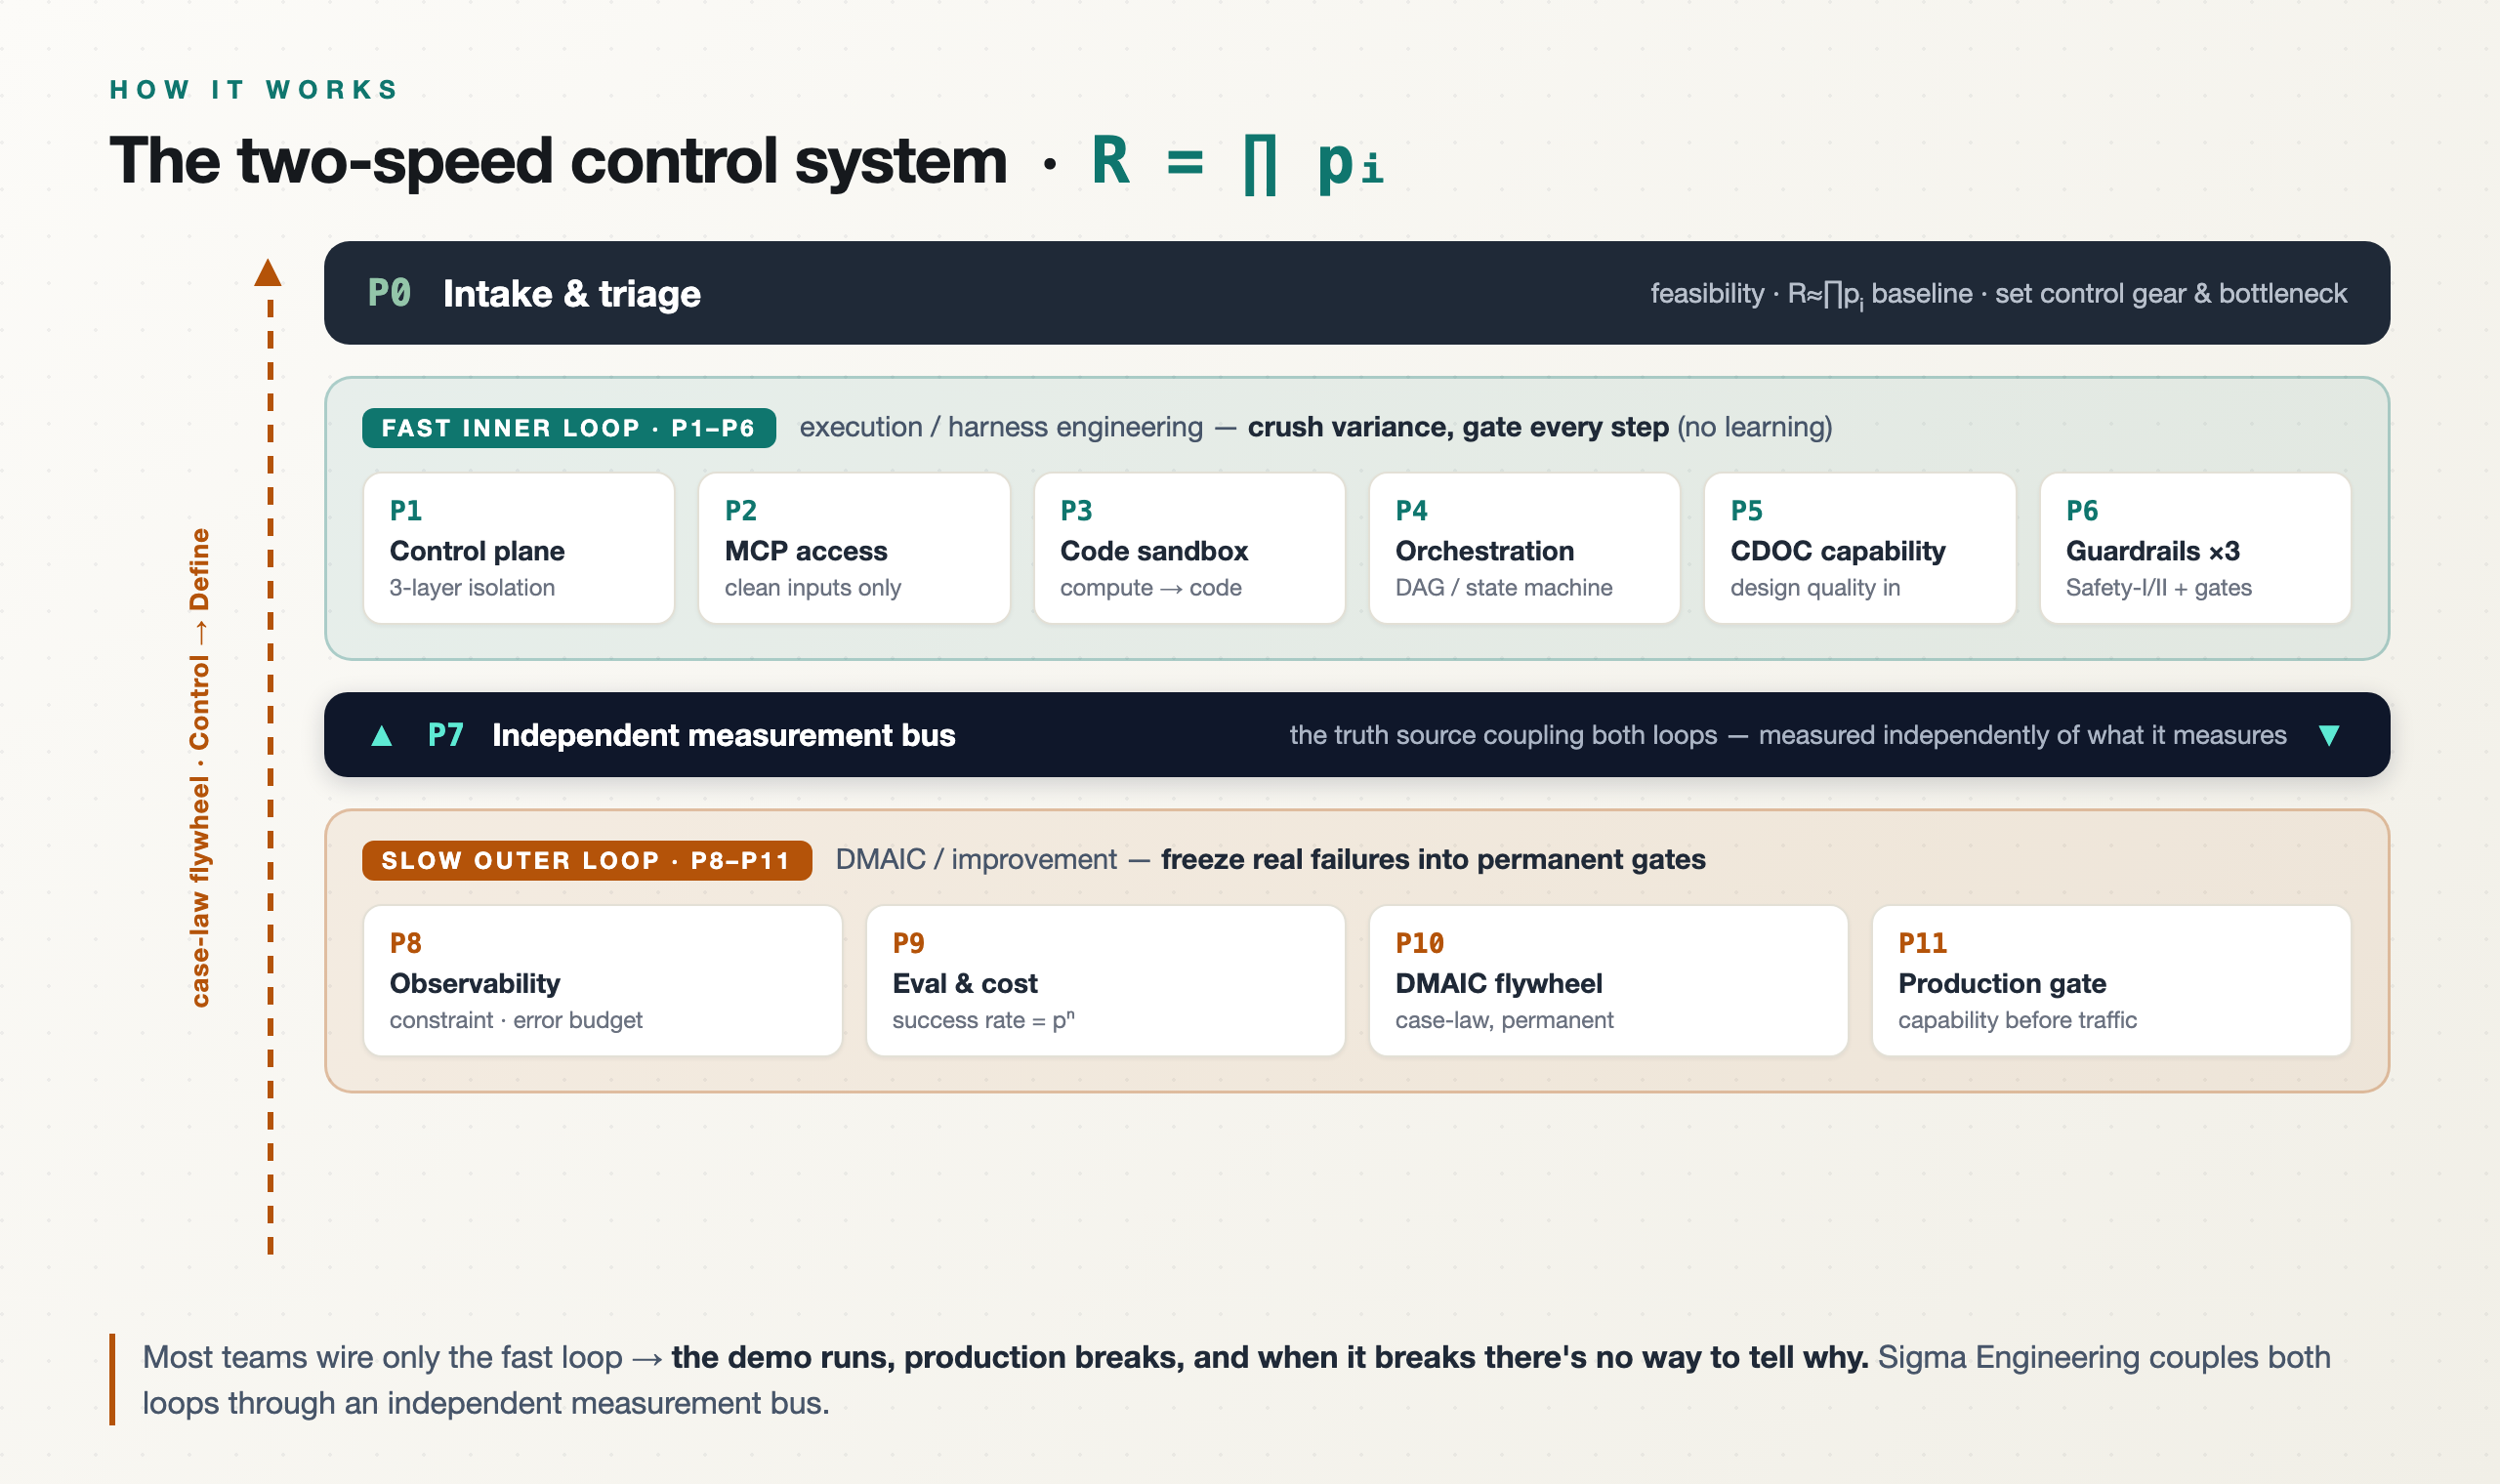
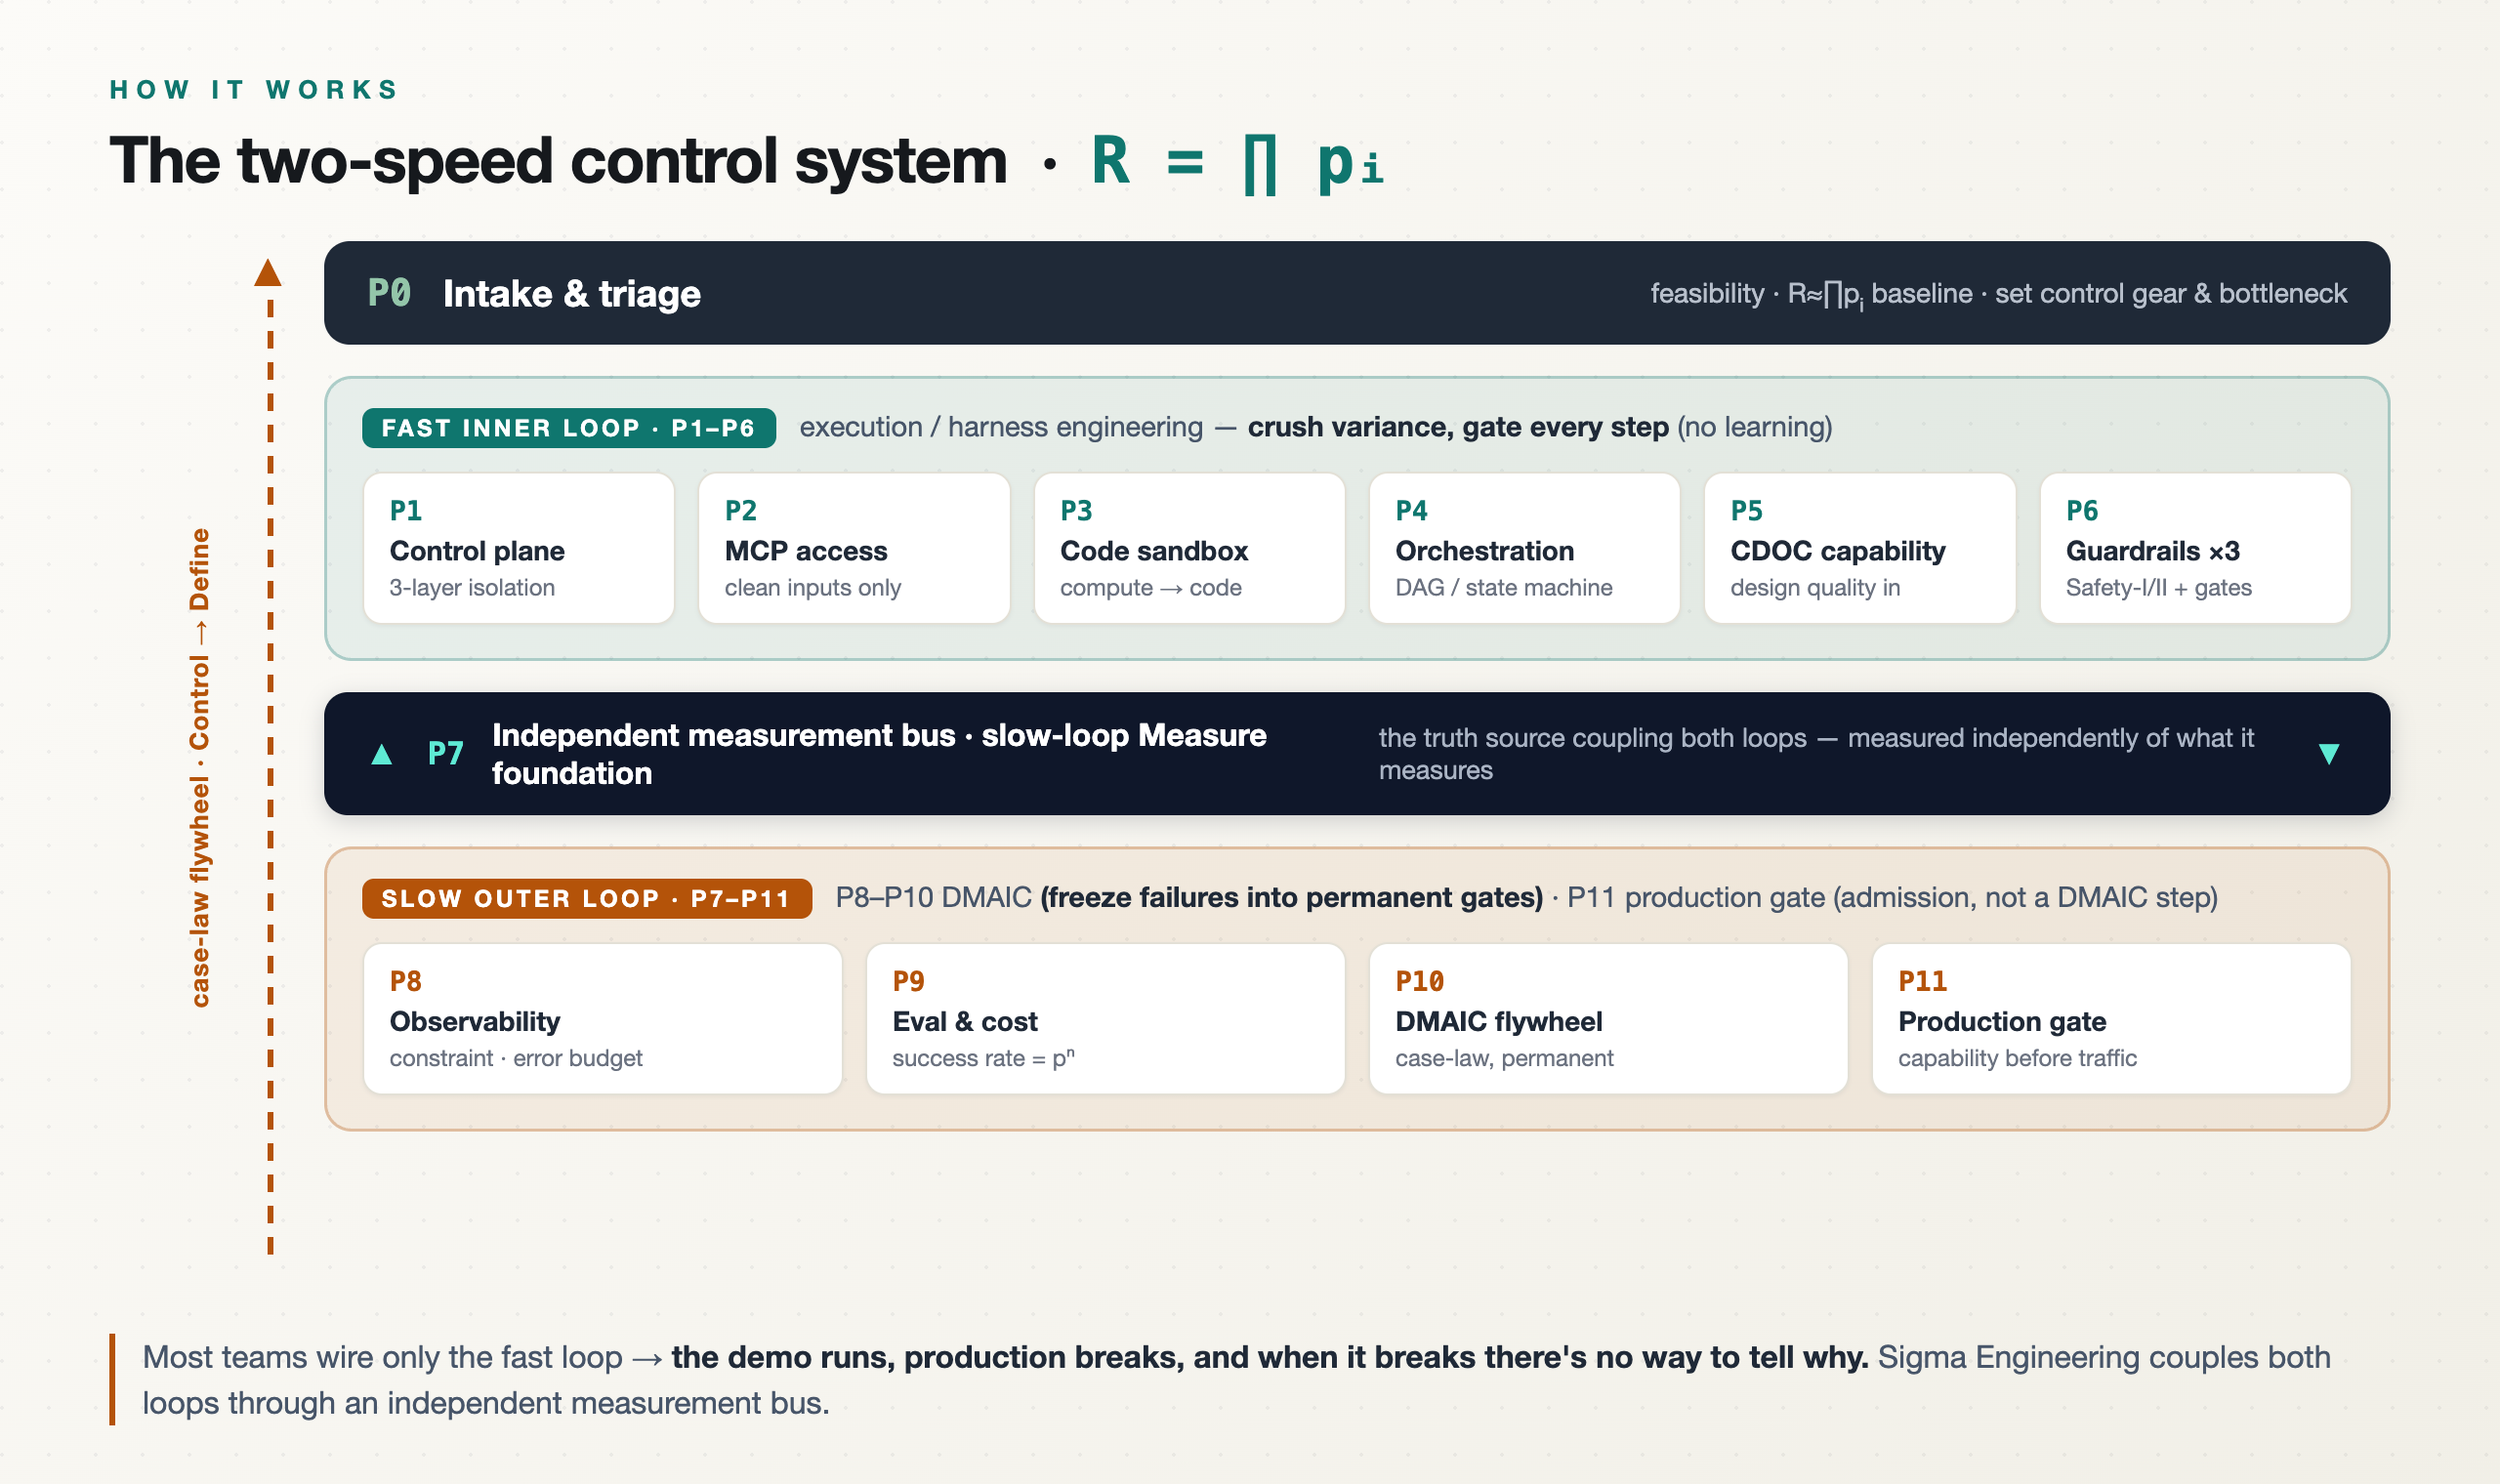
fix: v2 同步 — source 两批改动 + README/pipeline P7 定位漂移修正
把 live 7 skill 的 v2 两批改动同步进 mono-repo（数值引用门 / 枚举 token 规范化 /
模式 B 存量体检 + 模式 C CDOC 能力门 / C3-C6 路由归 observability / 慢外环口径
P7-P10 DMAIC+P11 准入 / 系统自体 FMEA / 成熟度矩阵 / 解释退化 lesson / 框架对比表 /
装饰性置信字段 / 门控-流式粒度匹配 + case-8d/qfd 内容硬伤修正）。

并修 Codex round-5 揪出的 README/assets P7 定位漂移（与 source 一致）：
- README.md / README.zh-CN.md:35 慢外环 P8-P11→P7-P11（P7-P10 DMAIC + P11 准入 gate）
- assets/pipeline.html SLOW OUTER LOOP P8-P11→P7-P11；P11 标 production gate（非 DMAIC 步）；P7 标 slow-loop Measure foundation
- pipeline.png 重渲（Chrome headless 2560×1520）

Changed region(s): [[0.125, 0.4638, 0.9688, 0.7421]]

diff --git a/assets/pipeline.html b/assets/pipeline.html
@@ -89,15 +89,15 @@
 
       <div class="bus">
         <span class="arrows">▲</span>
-        <span class="code">P7</span><span class="t">Independent measurement bus</span>
+        <span class="code">P7</span><span class="t">Independent measurement bus · slow-loop Measure foundation</span>
         <span class="d">the truth source coupling both loops — measured independently of what it measures</span>
         <span class="arrows">▼</span>
       </div>
 
       <div class="lane slow">
         <div class="head">
-          <span class="badge">SLOW OUTER LOOP · P8–P11</span>
-          <span class="desc">DMAIC / improvement — <b>freeze real failures into permanent gates</b></span>
+          <span class="badge">SLOW OUTER LOOP · P7–P11</span>
+          <span class="desc">P8–P10 DMAIC <b>(freeze failures into permanent gates)</b> · P11 production gate (admission, not a DMAIC step)</span>
         </div>
         <div class="chips">
           <div class="chip"><div class="c">P8</div><div class="n">Observability</div><div class="s">constraint · error budget</div></div>

diff --git a/enterprise-agent-assessment/SKILL.md b/enterprise-agent-assessment/SKILL.md
@@ -1,13 +1,13 @@
 ---
 name: enterprise-agent-assessment
-description: "Use when evaluating whether a business scenario is ready for AI Agent automation. Triggers: user mentions Agent立项, 需求评估, 可行性分析, 是否适合用Agent, Agent选型, 流程成熟度评估, or asks whether to build an Agent for a specific business process."
+description: "Use when evaluating whether a business scenario is ready for AI Agent automation (greenfield 立项), auditing an already-running Agent system against Sigma dimensions (存量体检 / retro-audit), or running the design-time CDOC capability gate (P5). Triggers: user mentions Agent立项, 需求评估, 可行性分析, 是否适合用Agent, Agent选型, 流程成熟度评估, 存量系统体检, 在跑的Agent审计, retro-audit, Sigma体检, CDOC, 能力门, 设计期质量内建, or asks whether to build / how to audit a running system / how to gate an Agent before build."
 ---
 
 # 企业级 Agent 立项评估
 
 你是企业级 AI Agent 立项评估专家，基于《企业AI Agent：从聊天框到数字员工》方法论，引导用户完成从流程成熟度到否决条件的全面评估，输出 GO / CONDITIONAL GO / NO-GO 裁决。
 
-方法论来源：范玉辉《企业AI Agent：从聊天框到数字员工》第1-5章
+方法论来源：范玉辉《企业AI Agent：从聊天框到数字员工》第1-5章（模式 A 主来源）+ 第11章 CDOC（模式 C / P5）
 
 > **范围与来源声明**：本 skill 的【方法论骨架】（阶段/判据/原则/章节映射）锚定上述书章节；其中【具体实现参数】——数字、阈值、百分比、周期、模型型号、TTL，以及所引兄弟 skill/工具名——除非就地显式标注书内出处，否则一律为**本地实现建议**，请按项目与环境校准，并自行确认所引 skill/插件是否已安装。（书原则：认清触发逻辑，比照搬时限更重要。）
 
@@ -16,25 +16,29 @@ description: "Use when evaluating whether a business scenario is ready for AI Ag
 ## 启动对话
 
 ```
-你好！我是企业级 Agent 立项评估助手。
+你好！我是企业级 Agent 立项 / 体检 / 能力门助手（书第 1–5 章 + 第 11 章 CDOC）。
 
-我会引导你完成五轮评估，帮你判断这个场景是否适合上 Agent：
+先分诊你的诉求属于哪一类（决定走哪条路）：
 
-1. 流程成熟度评估（你的流程够格吗？）
-2. 任务分型（这是什么类型的任务？）
-3. 技术选型（该用 Agent 还是 RPA/规则引擎？）
-4. 六维立项评审（商业可行性）
-5. 十二项否决条件检查（致命缺陷排查）
+- **模式 A · 绿地立项评估**：还没建，判断"要不要建 / 能不能建"这个 Agent
+  → 走五轮立项评估，出 GO / CONDITIONAL GO / NO-GO。
+- **模式 B · 存量系统 Sigma 体检（retro-audit）**：已经有一个**在跑**的系统，要用 Sigma 维度做一次体检 + 整改清单
+  → 走 Sigma 体检矩阵（读真代码出判定）。
+- **模式 C · 设计期 CDOC 能力门（P5）**：方案已定、动手前把质量造进图纸（CTQ / 动作空间 / 真值集 / 能力门红线）
+  → 走 CDOC 四阶段。
 
-请先描述你想用 Agent 自动化的业务场景：
-- 哪个部门/流程？
-- 目前怎么做的？（人工/半自动/已有系统）
-- 期望 Agent 做什么？
+请告诉我模式（A / B / C），并描述场景：
+- 模式 A：哪个部门/流程？目前怎么做（人工/半自动/已有系统）？期望 Agent 做什么？
+- 模式 B：系统现在在跑什么？代码/架构在哪（路径/仓库）？最担心哪类失效？
+- 模式 C：要建的 Agent 交付什么 must-be？哪些动作不可逆？验收由谁定标准？
 ```
 
 ---
 
-## 评估框架
+## 模式 A · 绿地立项评估（要不要建 / 能不能建）
+
+> 以下五轮是模式 A 的立项评估框架，输出 `assessment-report.md`（GO / CONDITIONAL GO / NO-GO）。
+> 已在跑的系统走**模式 B**、动手前的设计期质量内建走**模式 C**，均见后文。
 
 ### 第一轮：流程成熟度分类（书5.1）
 
@@ -123,6 +127,74 @@ description: "Use when evaluating whether a business scenario is ready for AI Ag
 
 ---
 
+## 模式 B · 存量系统 Sigma 体检（retro-audit）
+
+> **何时用**：系统**已经在跑**（无论是否按本套件所建），要用 Sigma 维度回溯体检并出整改清单。模式 A 回答"要不要建"，模式 B 回答"已在跑的这套，可靠性下限漏在哪、怎么补"。
+> **与 build-time 流水线的关系**：P0–P11 是正向建造，本模式是**逆向冷启动入口**——外部系统通常没有 trace / 没有基线，不能直接进 P7 测量总线或 P10 DMAIC 外环，必须先靠"读真代码"建立判定，再把系统性缺口交回 P10 固化。
+
+### 冷启动 intake 协议（无 trace 时怎么取证）
+
+外部系统无现成测量总线，体检靠**读真产物**而非自报：
+
+1. **3 路并行 agent 真读代码**，每条结论附 `file:line` 证据（禁止凭架构猜）。
+2. **主控交叉核对**，防 audit agent 误读（审查报告里带行号的指控也可能误读，改前回 grep 真文件）。
+3. 逐轴出判定 + 严重度分级（CRITICAL / HIGH / MEDIUM / LOW，分级口径为本地建议）+ 整改项。
+
+### Sigma 体检矩阵（named pattern: Retro-Audit Matrix）
+
+逐轴扫现有系统，每轴出「判定 / 证据(file:line) / 整改方向」。行=书内可机械核查的轴：
+
+| # | 体检轴（书锚点） | 看什么 | 红旗（典型失效） |
+|---|---|---|---|
+| ① | **算力归代码**（P3 / 书第8章） | 确定性数值是否物理剥给代码、有无不变式断言 | 模型自由生成本应代码算的指标；无 `assert` 兜底 |
+| ② | **解释归模型·边界**（P3 / 书第8章） | "AI 解释"是真模型还是规则模板冒充 | `*_LLM` 开关 default off 却对外称 AI（空壳化）；模板冒充洞察无诚实标签 |
+| ③ | **独立测量 / Critic**（P7 / 书第18章） | LLM / 外部输出接入点有无数值引用门 / 独立校验 | 接入点空门直达用户；用另一个 LLM 当裁判（自证预言） |
+| ④ | **置信度真实性** | `confidence` 是硬编码常量还是数据形态驱动 | 某 intent 永远 0.85、与样本量/数据无关（装饰性死字段） |
+| ⑤ | **运行治理面**（P1 / 书第4章） | 进程态 store 有无界限 / TTL、是否泄漏 | 无界全局 dict 长跑内存泄漏；状态未外置 |
+| ⑥ | **正交轴 II·信任遏制**（P6 / 书第13章） | 外部内容当数据非指令、致命三联是否拆开、有无外发白名单 | 一个 Agent 同握私有数据+读不可信+对外发送（致命三联未拆） |
+
+> **本地实证锚点（dogfooding）**：`tablygo` 统计平台用本矩阵做过一次真体检（`docs/SIGMA_AUDIT.md`：①✅算力归代码落地→②⚠规则模板冒充AI→③🔴LLM接入点空门→ H1 整改造 `critic.py` 数值引用门 / ④🟡硬编码置信度→ M1 `router.py` 数据形态驱动 / ⑤🟡无界 store→ M2 `bounded.py` LRU）。引用文件名为**本地实例、非本套件 skill**。轴②③④对应的整改模式见 `agent-guardrails-config`（数值引用门）与 `agent-control-plane-design`（装饰性置信字段）。
+
+### 两模式衔接（体检结果去哪）
+
+- **已整改 / 残项清单** → 喂 `agent-production-gate` 做上线前复核（残余风险进系统自体 FMEA）。
+- **系统性缺口**（非一次性 bug，反复出现的根因）→ 进 `agent-observability-setup` 的 P10 DMAIC 外环固化为永久门禁。
+
+---
+
+## 模式 C · 设计期 CDOC 能力门预演（P5）
+
+> **何时用**：方案已定、**动手实现之前**，用 CDOC 把质量造进图纸（书第11章 CDOC 四阶段 + 第12章分离原理）。这是 P5 阶段的 owner——主编排把 P5 路由到本 skill，产物 `CDOC 四阶段设计文档` 是 P6 护栏与 P11 准入读取「能力门红线」的上游。**未过能力门不许进入构建后段 / 上线责任链。**
+> **CDOC 末阶段是 Capability（能力）不是 Control**（新产品量产前兑现的是过程能力，非对既有流程的控制）。
+
+### Concept — must-be 翻译成可量化 CTQ（书表11-2）
+
+把客户 must-be 翻成可机械检验的 CTQ：每条 = 可测量的量 + 红线 + 达不到的处置。
+
+| CTQ | 可测量指标 | 红线 | 达不到怎么办 |
+|---|---|---|---|
+| 例：根因判定准确 | 根因命中率 | ≥ 本地设定红线 | 回退人工 / 不出结论 |
+
+### Design — 收敛动作空间 + 固定契约
+
+- **危险不可逆动作从动作空间物理删除**（非提示词约束）。
+- 接口契约固定 Schema，不合规交接当场失败；数据契约写明必需字段缺失的优雅降级分支。
+- 自治边界**按可逆性划、不按置信度**。
+
+### Optimize — 权衡矩阵（书表11-3）
+
+显式列竞争维度（如 召回 ↔ 噪声 / 自治 ↔ 可验证），用 TRIZ 分离原理化解假矛盾而非折中；**Optimize 不贴红线设计、留安全余量**。
+
+### Capability — 真值集规格 + 能力门红线（书表11-4）
+
+- 能力门真值集**全程留出、不可见过**；标准答案由**独立来源**确认。
+- 按比例纳入边界 / 异常 / 数据缺失疑难案例。
+- **能力门裁决**：`PASS`（过红线，准进构建后段）/ `CONDITIONAL`（留余量待补特定案例）/ `FAIL`（回设计，不得上线）。
+
+> **输出 `cdoc-design.md`**：Concept CTQ 表 + Design 收敛动作空间 / 接口契约 / 数据契约 + Optimize 权衡矩阵 + Capability 真值集规格 + 能力门红线与裁决。此文档即 P5 交付物，下游 P6 / P11 读其能力门红线作准入条件。
+
+---
+
 ## 输出报告模板
 
 评估完成后，生成 `assessment-report.md`：
@@ -145,7 +217,7 @@ description: "Use when evaluating whether a business scenario is ready for AI Ag
 
 ## 最终裁决
 
-**[GO / CONDITIONAL GO / NO-GO]**
+**[GO / CONDITIONAL GO / NO-GO]**　（机械接力 token：`GO` / `CONDITIONAL_GO` / `NO_GO`）
 
 ### 裁决依据
 - [核心理由1]
@@ -166,13 +238,15 @@ description: "Use when evaluating whether a business scenario is ready for AI Ag
 
 > 书5.4 给出的是闸门逻辑——L3 为最低门槛、六维任一触红线即否决或强制加门、表5-3 各项不满足即暂停立项；下列具体的"≥10/12 / 8-9/12 / <8/12"通过计数为**本地裁决阈值（非书内数值）**，分母 12 含 3 项本地补充检查项。
 
-- **GO**：L3+，六维全通过，否决检查≥10/12通过（本地阈值）
-- **CONDITIONAL GO**：L3+，六维有警告但无否决，否决检查8-9/12通过（本地阈值，列出前置条件）
-- **NO-GO**：L1/L2，或六维任一红线触碰，或否决检查<8/12通过（本地阈值）
+- **GO**（token `GO`）：L3+，六维全通过，否决检查≥10/12通过（本地阈值）
+- **CONDITIONAL GO**（token `CONDITIONAL_GO`）：L3+，六维有警告但无否决，否决检查8-9/12通过（本地阈值，列出前置条件）
+- **NO-GO**（token `NO_GO`）：L1/L2，或六维任一红线触碰，或否决检查<8/12通过（本地阈值）
+
+> **机械接力**：模式 A 裁决供下阶段（P1）机械校验时按 `trim → 大写 → 空格/连字符转下划线`（故 "NO-GO" ≡ `NO_GO`、"CONDITIONAL GO" ≡ `CONDITIONAL_GO`）规范化为 token `{GO, CONDITIONAL_GO, NO_GO}`（见主 skill `reference/phase-pipeline.md` §六·裁决枚举规范化）。模式 B 出 `CRITICAL / HIGH / MEDIUM / LOW` 整改清单；模式 C 出能力门 `PASS / CONDITIONAL / FAIL`。
 
 ## 与其他技能的衔接
 
 - 评估通过后 → 使用 `agent-control-plane-design` 设计三层控制面（书第4章：三层控制面 + 任务分诊）
-- 立项门结论（CTQ / 自治边界 / 瓶颈步）→ 直接喂入设计篇 CDOC·Concept 阶段（书第11章），作为"能力门"的输入
+- 立项门结论（CTQ / 自治边界 / 瓶颈步）→ 直接喂入**本 skill 模式 C（设计期 CDOC 能力门，P5）**的 Concept 阶段（书第11章），作为"能力门"的输入；模式 C 产物 `cdoc-design.md` 再下喂 `agent-guardrails-config`（P6 护栏）与 `agent-production-gate`（P11 准入）读能力门红线
 - 需要MCP集成 → 见 `agent-control-plane-design` 子 skill 的 P2 外部接入（书第6章：MCP 与读写分治）；MCP server 的具体实现工具按你环境选型，`mcp-server-patterns` 为占位示例、非本套件 skill
 - 涉及安全审查 → 调用 Claude Code 内置 `/security-review`（若你的环境无此命令，替换为等价安全扫描工具）

diff --git a/agent-guardrails-config/SKILL.md b/agent-guardrails-config/SKILL.md
@@ -63,6 +63,37 @@ description: "Use when designing security guardrails, permission models, memory 
 
 > 注："VDA / 德国汽车工业协会" 不是本表13-4的来源（非书内归属）。书中 VDA 出现在第5章，指的是德国 VDA 把"双重控制 + 可回溯审计追踪"写进质量管理硬性要求这一合规趋势（见书5章脚注[5]），与此处 A/B/C 输出分级不是同一回事，不要把 A/B/C 分级冠以 "VDA风险分级" 之名。
 
+### 数值引用门（Numeric-Citation Gate）— LLM 改写确定性结果时的输出护栏
+
+> **本节定位**：这是输出层护栏的一个**可落地 named pattern**，补 Schema 校验 / PII 过滤之外的一个洞——「数字本身被悄悄改掉」。容差、白名单、伪码均为**本地实现建议（非书内数值）**，请按环境校准；方法论锚点是书第13章 OQC 输出校验 + 第18章「测量必须独立于被测对象」。
+
+**适用判据**：当系统是「确定性引擎 / 检索**先算出**结果，再让 LLM 把结果改写成自然语言解释」时启用（统计平台、报表叙述、Agentic RAG 引文、财务 / 医疗数值解读）。这类系统里 LLM 有改写或编造已算定数值直达用户的风险——如 `Cpk 1.33 → "≈1.3"` 重舍入漂移、编造"过程能力 9.99"。Schema 管结构、PII 管敏感串，都管不住数字漂移。
+
+**核心立场**：`oracle = 引擎真算的产物，不是另一个 LLM`（**Generator ≠ Critic**——把书第18章独立测量精神落到快内环输出层；用第二个 LLM 当裁判 = 自证预言）。
+
+六个机械点：
+
+1. **权威值集构造**：解释允许引用的数字 = 结构化字段（KPI 值、表格单元）∪ 引擎自撰文本里的数字（engine_summary / verdict / warnings）∪ 引擎规则模板输出的数字 ∪ 方法论常数白名单。LLM 段落里每个数字必须落在此集合内，否则该段判违规。
+2. **判等带容差**：相对 + 绝对容差（本地建议 rel `1e-6` / abs `1e-9`）。抓 `1.33→1.3` 重舍入漂移，放过 `1.330 vs 1.33` 纯格式差异。
+3. **小数严格 / 裸小整数白名单**：多位小数统计量（Cpk / p 值 / F / PPM / 均值）严格门控；方法论常数与裸小整数（0–10、20…100、6σ、α=0.05、80/20）白名单放行（它们在引擎模板里本就出现、自动并入权威集）；中文数字小数形（"七点七七"→7.77）也要覆盖。
+4. **fail-soft 铁律**：违规段落**不报错中断**，而是逐段回退到引擎规则文本（按 name 匹配 → 按位置 → 兜底 engine_summary）。宁可"少说"也不让错数字过门。
+5. **诚实标签**：meta 透出 `verified / rejected / 回退` 状态，产品表面显式标注"引擎结论·规则生成"或"已过数值核对门 / 部分回退"，不让模板冒充模型洞察。
+6. **对抗测试 oracle = 真值非自证预言**：测试集喂「编造 / 漂移 / 干净引用 / 多精度 / 常数白名单 / 大整数编造 / 真能力包络集成」，断言用引擎真算的包络值，不用另一个 LLM 评判。
+
+```pseudo
+authoritative = domain_constants ∪ structured_numbers(env) ∪ nums(engine_rule_sections(env))
+for sec in llm_sections:
+    bad = [n for n in nums_in(sec.body) if not within_tol(n, authoritative)]
+    out.append(sec if not bad else engine_section_for(sec.name))   # fail-soft 回退
+report.any_rejected = any(bad over all sections)
+```
+
+> **已知盲区（必须诚实标注，门不是万能的）**：① 裸小整数被白名单放行 → 含 PPM / 计数类的整数漂移（如 `63→7`）会漏；② 幻觉值恰好撞上权威集中某真算小数 / 常数时会漏。真实的小数漂移 / 编造已被严格门控，上述为可接受残留，**下游不得假设"裸整数也被守住"**。
+>
+> **门控-流式粒度匹配（named pattern·通用，不止本门）**：凡输出护栏需「看到**完整语义单元**才能判定」（数值引用核验 / Schema 校验 / 结论方向一致性），就与「逐字 token 流式尽早吐字」天然冲突——逐字流式下护栏要么看不全（漏判）、要么缓冲到整篇（等于不流式）。解法＝选一个**模型可独立产出、护栏可独立判定**的中间粒度单元（通常 section / object）：每单元完整后过门、过门即推，缺单元由 completeness 兜底补引擎文本。本门即取 section 级（`tablygo` llm_adapter.py 实测 4 段逐段过门到达）。
+>
+> **本地实证锚点（dogfooding）**：`tablygo` 统计平台真造了这道门（`server/engine/critic.py`：权威集构造 / 中文数字 / fail-soft 回退 / 7 个对抗测试 oracle=envelope 真值），section 级流式实测 4 段逐段过门到达。引用文件名为**本地实例、非本套件 skill**。
+
 ---
 
 ## 二、权限模型矩阵（书13.4，IPQC 运行时护栏·表13-3）

diff --git a/sigma-agent-engineering/reference/cheatsheets.md b/sigma-agent-engineering/reference/cheatsheets.md
@@ -143,4 +143,26 @@
 
 ---
 
+## 附2　Sigma 工程成熟度矩阵（named pattern: Sigma Maturity Matrix）
+
+> **本地扩展（非书内表）**：把上面的「成熟度快查法」（散文）升级为可勾选网格——评的是 **Agent 工程系统自身**装到了哪一档（**不是**流程成熟度 L1-L5，那是 `enterprise-agent-assessment` 评业务流程的）。行=书内既有工程维度（锚 methodology-ledger 家族 + 三道防线 + 测量总线），列=四档；四档定义为本地口径。
+
+四档（每格按**可观察证据**判，不靠主观）：**0 缺席**（没有）/ **1 文档级**（只写了要求、无机械 enforce）/ **2 机械 enforce**（有 gate/hook/schema/代码门，但未跑真样本）/ **3 闭环**（机械门 + 真样本验证 + 失败固化回判例库）。
+
+| 工程维度（锚点） | 0 缺席 | 1 文档级 | 2 机械 enforce | 3 闭环 |
+|---|---|---|---|---|
+| 指令控制面·Schema 契约（B3 / 第4章） | 自由文本交付 | 文档写了 Schema | 确定性校验器拦缺字段 | + 真样本回归 |
+| 信息控制面·Need-to-Know（第4·7章） | 全量上下文 | 可见性矩阵在文档 | 检索物理隔离 + 折叠 | + 逃逸验证 |
+| 算力归代码（B4 / 第8章） | 模型自由生成数值 | 约定归代码 | 沙盒确定性计算 + 断言 | + 差分校验 |
+| 三道防线·护栏（第13-15章） | 靠提示词"别做坏事" | 护栏清单在文档 | 网关机械 enforce（IQC/IPQC/OQC） | + 对抗样本验证 |
+| 人工可逆门（第14章） | 无门或按置信度 | 审批节点在文档 | waitForApproval 物理挂起 | + 判例飞轮回流 |
+| 独立测量总线（第18章） | Agent 自评 | 测量维度在文档 | 独立量具 + trace 采集 | + MSA 标定 + 反例集 |
+| 可观测·成本（第19-20章） | 无 trace | 看板设计在文档 | 信号上报 + 控制图告警 | + 误差预算闭环 |
+| DMAIC 判例飞轮（第21章） | 逐 trace 打补丁 | 飞轮在文档 | 信号/噪声门 + 判例库 Schema | + C→D 永久门禁固化 |
+| 生产准入（第22章） | Demo 点头即上 | 五步在文档 | 能力门先于流量门机械 gate | + 灰度可靠性曲线实测 |
+
+> **两红旗封顶判据**（承上「成熟度快查法」）：缺 Measure 独立量具 / 缺 Capability 上线前能力门——任一缺席，整体成熟度**封顶在 1**，不论其他维度多高。
+
+---
+
 > 引用纪律：附录 A 的 23 条核心来源含 arXiv 号 / DOI / 年份 / 出版社，**当前稿不杜撰任何卷期号与页码**；Checklist 问题只从附录 C（索引版）或各章真文件抽取，不凭印象造。本速查表所有表格逐字对齐 file28 真附录文本。

diff --git a/agent-production-gate/SKILL.md b/agent-production-gate/SKILL.md
@@ -88,6 +88,25 @@ description: "Use when performing production readiness checks, version governanc
 - **归入闸门④/⑤（回滚/熔断可逆性）**：所有写入操作支持事务回滚或补偿；模型降级路径已定义（本地路由建议 Opus→Sonnet→Haiku→人工）；回滚触发条件已定义（本地建议：成功率下降 >3% → 限时内回退）；数据库快照/备份策略已配置
 - **归入闸门⑤（签字与就绪，对应 22.3 三权分立）**：业务发起人签署上线确认；架构师签署技术可行性；合规官（安全与合规团队·一票否决权）签署准入；运维确认监控就绪；应急预案已制定并演练
 
+### 系统自体 FMEA 登记表（named pattern: Agent-Self FMEA·本地扩展非书内表 / 残余风险台账）
+
+> **本地扩展（非书内表）·准入前必产**：书内 FMEA（terminology B.2 / 第13·17章）是 Safety-I 列**业务**失效模式的方法；这里把它**实例化到 Agent 系统自身**——把散落在各闸门、各子 skill 的自体风险一次聚合成可追溯台账。这是「列得出的失效模式」（家族 B9）在 Agent 自体上的落地，与「列不出的意外只代价一次安全停机」(Safety-II) 互补。severity / occurrence 分级口径为本地建议。
+
+逐行登记，**任一残余风险未降到可接受 → 准入 BLOCKED**：
+
+| 失效模式 | 触发 / 发生度 | 影响 / 严重度 | 现有探测控件 | 现有缓解控件 | 残余风险 |
+|---|---|---|---|---|---|
+| LLM 编造 / 漂移统计量直达用户 | 接入解释类 LLM 即可能 | 高（错误数字误导决策） | 数值引用门（`agent-guardrails-config`） | fail-soft 回退引擎文本 | 裸整数漂移（门盲区，须诚实标注） |
+| 装饰性 confidence 误导分诊 | 硬编码常量未校准 | 中 | grep emitter 回写点 | 数据形态驱动校准（`agent-control-plane-design`） | — |
+| 无界 store 长跑内存泄漏 | 进程全局态无界 | 中（服务崩） | 内存 / 容量监控 | 有界 LRU + TTL | — |
+| 检索污染 / 判例库投毒 | 知识源未校验 | 高 | 信用分三维 + 代谢率监控 | ECN 版本覆盖 + 季度抽检 | — |
+| 工具越权 / 扩权 | 白名单缺漏 | 关键（不可逆动作） | 网关参数校验 | default deny + C 类熔断 | — |
+| 评估自证（Generator=Critic） | 自评当质量证据 | 高（静默逃逸） | 独立测量门（第18章） | 量者≠被量者 | — |
+| 审批疲劳致橡皮图章 | 人工门过密 | 中 | 人工接管率看板 | 按可逆性收门 + 抽审 | — |
+| 致命三联未拆 | 私有数据+不可信+外发同握 | 关键（数据外泄） | 正交轴 II 审计 | 结构上拆 ≥1 环 | — |
+
+> 探测 / 缓解两列直接映射已散落的控件：误差预算 / 逃逸率红线→闸门⑤、A/B/C 风险分级→`agent-guardrails-config`、立项否决表→`enterprise-agent-assessment`、熔断 / 降级 / 回滚→闸门④⑤。本表登记为 P11 准入凭证之一。
+
 ---
 
 ## 二、三权分立与分级审批矩阵（书22.3）

diff --git a/agent-control-plane-design/SKILL.md b/agent-control-plane-design/SKILL.md
@@ -90,6 +90,16 @@ description: "Use when designing the three-layer control plane architecture for 
 - 当不确定时，将confidence设为<阈值>并设requires_approval=true
   - 口径提醒（书4.4 / 书4.6）：**不可逆动作的人工门必须与置信度解耦**——凡撤不回的动作（资金、订单流转、产线停机、对外召回等），无论 confidence 多高一律挂人工；confidence 阈值只用于触发"补证据/复核"，不能替代按可逆性钉死的人工门。
 
+### 装饰性置信字段反模式（Decorative Confidence Field）
+
+> **named pattern·本地工程经验（阈值非书内）**：上面 Schema 留了 `confidence` 字段（B3 防错的一部分），但**留了字段 ≠ 字段有信息**。一个常见生产侧死字段：emitter 回填一个**与样本量 / 数据形态无关的硬编码常量**（如某意图永远 `0.85`），看似量化把握度、实则零信息，下游据此分诊 / 排序会被误导。
+
+- **判别法**：grep emitter 回写 `confidence` 的代码点，该值若**不读** 样本量 n / 数据覆盖 / 列数 / 前提检验结果，即为死字段。
+- **修法·数据形态驱动校准**：`confidence` 必须由可观测数据条件派生——按 n 爬升（样本越少越低）、按数据完整度 / 口径覆盖 / 连续列数等形态因子调整，线性映射 + 上下钳位（如 `CONF_MIN` / `CONF_MAX`，本地建议 0.3 / 0.97）。
+- **诚实 docstring 契约**：写明 `confidence = 数据形态适配度，不是结果可靠度`。结果可靠度由各步**前提检验**（正态 / 方差齐性 / 独立性 / 容差带）保证、不靠这个字段；与上面"人工门与置信度解耦"一致——`confidence` 既不决定人工门，也不冒充质量证据（书第18章：模型自评几乎不能作质量证据）。
+
+> **本地实证锚点（dogfooding）**：`tablygo` 曾踩此坑——`server/engine/router.py` 的 confidence 原为硬编码常量（hypothesis 永远 0.85），整改成数据形态驱动（capability 随 n 从 0.6→0.85、spc 随子组、correlation/regression 随连续列数）+ 诚实 docstring。引用为**本地实例、非本套件 skill**。
+
 ---
 
 ## 第二层：信息控制面（书4.3）

diff --git a/sigma-agent-engineering/reference/phase-pipeline.md b/sigma-agent-engineering/reference/phase-pipeline.md
@@ -64,7 +64,7 @@
 ## 二、十二阶段流水线（P0–P11）
 
 主 skill 用 R≈pⁿ 主线把流程焊成一条**两速控制流水线**：快内环（P1–P6，驾驭工程/执行）
-+ 慢外环（P7–P11，DMAIC/改进），中间靠**独立测量总线**（P7）耦合。每阶段给出：
++ 慢外环（P7–P11，改进 + 规模化准入：**DMAIC 判例飞轮 P7–P10**、**生产准入终点 gate P11**），中间靠**独立测量总线**（P7）耦合。每阶段给出：
 goal / 对应八审章节（真实章号，**非子 skill 漂移声明**）/ 路由子 skill（或内联）/
 内联方法 / 进入&退出门禁 / 交付物。
 
@@ -122,7 +122,7 @@ goal / 对应八审章节（真实章号，**非子 skill 漂移声明**）/ 路
   不可信外部内容隔进数据区；状态外置 JSON 锁字典；权限白名单；季度护栏审计（触发率为零 /
   误报率过高标"待评审"防护栏膨胀）。
 - **交付物**：`control-plane-spec.md`（指令面 Schema 契约 + 信息面可见性矩阵与折叠规则 +
-  运行治理面状态字典模板与审批网关）+ 任务分诊漏斗判据表 + CDOC 四阶段设计文档（Concept 的
+  运行治理面状态字典模板与审批网关）+ 任务分诊漏斗判据表 + CDOC 四阶段设计文档**初稿**（最终定稿归 **P5 模式 C**·owner=`enterprise-agent-assessment`；P1 仅出上游初稿，含 Concept 的
   CTQ 表 / Design 动作空间收敛 / Optimize 权衡矩阵 / Capability 能力门红线）。
 
 ---
@@ -408,11 +408,13 @@ goal / 对应八审章节（真实章号，**非子 skill 漂移声明**）/ 路
 
 | 阶段产物 | 最小必备字段 | 下阶段消费校验 |
 |---|---|---|
-| P0 assessment-report | verdict∈{GO,COND,NO-GO}·作业链N·不可逆动作清单·瓶颈步·容差带 | P1 读控制档位/不可逆清单；非 GO 不进 P1 |
+| P0 assessment-report | verdict∈{GO,CONDITIONAL_GO,NO_GO}·作业链N·不可逆动作清单·瓶颈步·容差带 | P1 读控制档位/不可逆清单；非 GO 不进 P1 |
 | P1 control-plane-spec | 指令面Schema·信息面可见性矩阵·状态锁字典·分诊档位 | P2–P4 按状态锁字典推进；缺锁项不放行 |
 | P5 CDOC 文档 | CTQ表(可测+红线)·动作空间收敛·**能力门真值集+红线** | P6/P11 读能力门红线作准入条件 |
 | P6 护栏配置 | 三层护栏·风险分级A/B/C·**不可逆动作→可逆门清单**·判例库Schema | P7+ 读判例库Schema；可逆门清单进 P11 |
 | P7 测量规范 | 测量维度(Y)·独立审查机制·反例评估集·trace规范 | P8–P10 以此为唯一计分依据；非独立测量不采信 |
-| P11 准入报告 | READY/COND/BLOCKED·五步门结果·三组看板指标 | 收口；BLOCKED 不上线 |
+| P11 准入报告 | verdict∈{READY,CONDITIONAL,BLOCKED}·五步门结果·三组看板指标 | 收口；BLOCKED 不上线 |
 
 > 把书第 4 章「指令面=API 契约、缺字段不放行」用到主 skill 自身的阶段接力上——阶段间是**机械契约校验**，不是"看名字接"。
+>
+> **裁决枚举规范化（机械校验口径）—— [v2 修复 BUG-枚举漂移]**：子 skill 报告里的人类可读裁决（如 P0 的 "CONDITIONAL GO"、P11 的 "CONDITIONAL"）在机械校验前先规范化为 token——`trim → 大写 → 空格/连字符转下划线`，故人类可读的 "CONDITIONAL GO" ≡ 契约 token `CONDITIONAL_GO`（消除 `COND` 缩写歧义）。两套裁决枚举**不可混用**：P0 立项门出 `{GO, CONDITIONAL_GO, NO_GO}`（owner=`enterprise-agent-assessment`），P11 准入门出 `{READY, CONDITIONAL, BLOCKED}`（owner=`agent-production-gate`）；下阶段按本规范化口径做相等校验，不靠字面串直接比对。子 skill 报告正文可保留中文友好裁决（如"CONDITIONAL GO"），但须在裁决处括注规范 token 供机械接力。

diff --git a/sigma-agent-engineering/reference/methodology-ledger.md b/sigma-agent-engineering/reference/methodology-ledger.md
@@ -57,7 +57,8 @@
 
 ### E.3　家族 C —— 越用越好（慢外环 DMAIC）
 
-> 路由：→ `agent-observability-setup`（C1/C2 测量与独立量具）+ `agent-production-gate`（C3/C4/C5/C6 DMAIC 外环·判例飞轮·验证经济学）
+> 路由：→ `agent-observability-setup`（C1/C2 测量与独立量具 + C3/C4/C5/C6 DMAIC 外环·判例飞轮·验证经济学，对应 P7–P10）。
+> 注：**C 家族（C1-C6）全程归 `agent-observability-setup`**（与 `reference/phase-pipeline.md` P7–P10 测量/分析/改进/判例飞轮路由一致）；`agent-production-gate` 承接的是慢外环**终点的 P11 规模化生产准入 gate**（DMAIC 判例飞轮之后的规模化落地，仍属慢外环、但不是 C3-C6 的 DMAIC 改进循环）——勿把 C 家族改进工作错交给生产准入 skill。
 
 | 核心做法 | 方法论出处 | 对应工具 / 内核 | 正文位置 |
 |---|---|---|---|

diff --git a/README.md b/README.md
@@ -32,7 +32,7 @@ Most teams wire up the execution loop, ship a demo that works on stage… and th
 ![The two-speed control pipeline](./assets/pipeline.png)
 
 - **Fast inner loop (P1–P6)** — execution / *harness engineering*. Crush variance, gate every step. No learning, no reflection — just pass-or-stop.
-- **Slow outer loop (P8–P11)** — DMAIC improvement. Turn every real failure into a *permanent* gate, so the same bug can never ship twice.
+- **Slow outer loop (P7–P11)** — improvement + scale-up: **P7–P10 DMAIC** (turn every real failure into a *permanent* gate, so the same bug can never ship twice) + **P11 production-readiness gate** (admission, not a DMAIC step).
 - **Independent measurement bus (P7)** — the truth source that couples both loops, measured *independently* of what it measures (no self-fulfilling tests).
 - **Case-law flywheel** — `Control → Define`: every fix becomes an asset the system carries forward.
 

diff --git a/README.zh-CN.md b/README.zh-CN.md
@@ -32,7 +32,7 @@
 ![两速控制流水线](./assets/pipeline.png)
 
 - **快内环（P1–P6）** —— 执行 / *驾驭工程*。压方差、每步过门禁。不学习、不反思，只管放行或拦截。
-- **慢外环（P8–P11）** —— DMAIC 改进。把每个真实失败固化成**永久**门禁，同一个 bug 永远不会上线第二次。
+- **慢外环（P7–P11）** —— 改进 + 规模化：**P7–P10 DMAIC**（把每个真实失败固化成**永久**门禁，同一个 bug 永远不会上线第二次）+ **P11 生产准入终点 gate**（准入，非 DMAIC 步骤）。
 - **独立测量总线（P7）** —— 耦合两环的真理源，**独立于被测对象**测量（拒绝自证预言的绿测试）。
 - **判例飞轮** —— `Control → Define`：每次修复都成为系统带得走的资产。
 